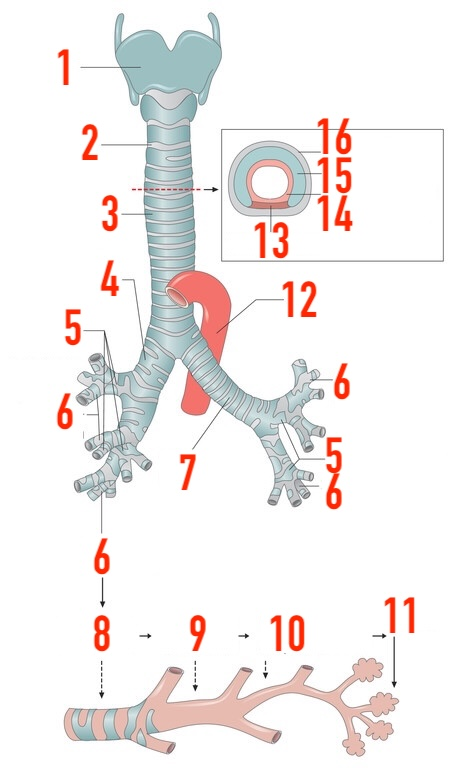
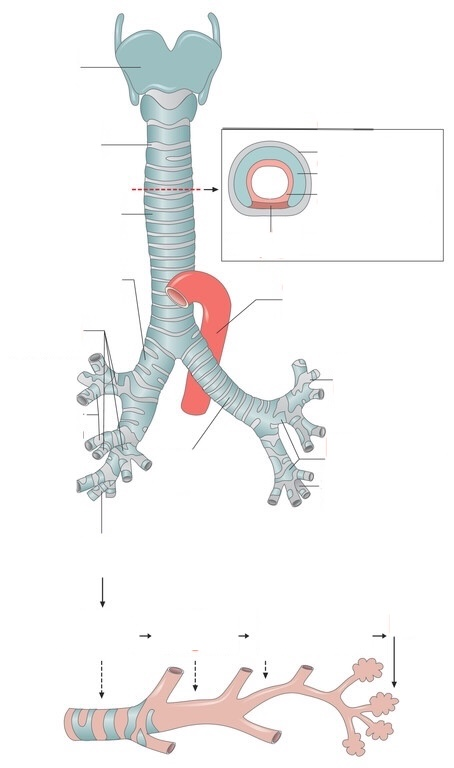
Release Version 1.3.9 - Fix

diff --git a/app/templates/edit_card.html b/app/templates/edit_card.html
@@ -14,10 +14,8 @@
                 <input type="hidden" name="next" value="{{ next_url }}">
                 {% endif %}
                 
-                <input type="hidden" name="multi_json" id="multi_json_input">
-                <input type="hidden" name="options" id="fallback_options_input">
-                
-                <textarea id="safe_json_loader" class="d-none">{{ card.options }}</textarea>
+                <input type="hidden" name="multi_json" id="multi_json_input" value="{{ card.options | e if card.options else '[]' }}">
+                <input type="hidden" name="options" id="fallback_options_input" value="{{ card.options | e if card.options else '[]' }}">
                 
                 <div class="row g-3 mb-3">
                     <div class="col-md-8">
@@ -105,7 +103,7 @@
                     <h5 class="fw-bold text-primary mb-3"><i class="bi bi-pin-map-fill me-2"></i>Interaktives Bild bearbeiten</h5>
                     
                     <label class="fw-bold small mb-2 text-secondary">1. Zielpunkte platzieren & verschieben</label>
-                    <p class="small text-muted mb-3">Klicke ins Bild, um neue Zielpunkte zu setzen. <strong>Du kannst bestehende Punkte nun einfach mit der Maus (oder dem Finger) per Drag & Drop an die richtige Stelle ziehen!</strong></p>
+                    <p class="small text-muted mb-3">Klicke ins Bild, um neue Zielpunkte zu setzen. <strong>Du kannst bestehende Punkte nun einfach mit der Maus per Drag & Drop verschieben!</strong></p>
                     
                     <div class="text-center bg-light rounded-4 border p-3 mb-4 shadow-inner">
                         <div style="position: relative; display: inline-block; cursor: crosshair; max-width: 100%; touch-action: none;" 
@@ -126,7 +124,7 @@
 
                 <div id="field_json" class="mb-3 {% if card.type not in ['ordering', 'assignment', 'calculation'] %}d-none{% endif %}">
                     <label class="fw-bold small">JSON Daten (Optionen)</label>
-                    <textarea name="ordering_json" id="ordering_json_textarea" class="form-control font-monospace" rows="5">{{ card.options }}</textarea>
+                    <textarea name="ordering_json" id="ordering_json_textarea" class="form-control font-monospace" rows="5">{{ card.options if card.options else '[]' }}</textarea>
                 </div>
 
                 <div class="d-flex justify-content-end gap-2 mt-4">
@@ -138,10 +136,15 @@
 </div>
 
 <script>
-// ---------------------------------------------------------
-// GLOBALE FUNKTIONEN FÜR DEN ANATOMIE-EDITOR
-// ---------------------------------------------------------
-window.anatomyMarkers = [];
+// --- Direkter JSON Injektor, umgeht den fehleranfälligen Textarea-Workaround ---
+try {
+    window.anatomyMarkers = {{ (card.options or '[]') | safe }};
+    if (!Array.isArray(window.anatomyMarkers)) window.anatomyMarkers = [];
+} catch(e) {
+    console.error("JSON Parse Fehler:", e);
+    window.anatomyMarkers = [];
+}
+
 window.anatomyNextId = 1;
 
 window.syncAnatomyJson = function() {
@@ -166,7 +169,6 @@ window.removeAnatomyMarker = function(index) {
     window.updateAnatomyView();
 };
 
-// FIX: Schutzfunktion gegen zerschossene HTML-Eingabefelder durch Sonderzeichen
 function escapeHtml(unsafe) {
     return (unsafe||'').toString()
          .replace(/&/g, "&amp;")
@@ -176,9 +178,6 @@ function escapeHtml(unsafe) {
          .replace(/'/g, "&#039;");
 }
 
-// ---------------------------------------------------------
-// DRAG & DROP LOGIK FÜR DIE ZIELPUNKTE (NEU)
-// ---------------------------------------------------------
 let draggedMarkerIndex = -1;
 let hasDragged = false;
 
@@ -230,7 +229,7 @@ window.stopDrag = function(e) {
 };
 
 window.addAnatomyMarker = function(e) {
-    if(hasDragged) return; // Wenn wir gerade gezogen haben, keinen neuen Punkt erstellen
+    if(hasDragged) return;
     if(e.target.closest('button') || e.target.closest('.admin-marker')) return; 
     
     const imgContainer = document.getElementById('admin-img-container');
@@ -268,11 +267,10 @@ window.updateAnatomyView = function() {
         dot.style.width = '28px'; dot.style.height = '28px';
         dot.style.left = `calc(${marker.x}% - 14px)`;
         dot.style.top = `calc(${marker.y}% - 14px)`;
-        dot.style.cursor = 'grab'; // Zeigt dem Nutzer, dass er ziehen kann
+        dot.style.cursor = 'grab';
         dot.style.zIndex = '10';
         dot.innerHTML = `<span class="text-white small fw-bold d-flex justify-content-center align-items-center h-100" style="pointer-events: none;">${index + 1}</span>`;
         
-        // Drag Events an den Punkt binden
         dot.onmousedown = (e) => window.startDrag(e, index);
         dot.ontouchstart = (e) => {
             const touch = e.touches[0];
@@ -330,36 +328,14 @@ window.handleImageUpload = function(event) {
 };
 
 document.addEventListener('DOMContentLoaded', function() {
-    const loader = document.getElementById('safe_json_loader');
+    let maxId = 0;
+    window.anatomyMarkers.forEach(m => { if (parseInt(m.id) > maxId) maxId = parseInt(m.id); });
+    window.anatomyNextId = maxId + 1;
     
-    if(loader && loader.value.trim() !== '') {
-        try {
-            window.anatomyMarkers = JSON.parse(loader.value);
-            window.syncAnatomyJson();
-
-            let maxId = 0;
-            window.anatomyMarkers.forEach(m => { if (parseInt(m.id) > maxId) maxId = parseInt(m.id); });
-            window.anatomyNextId = maxId + 1;
-            
-            const anatomyImg = document.getElementById('admin-anatomy-img');
-            if (anatomyImg && anatomyImg.getAttribute('src')) {
-                if(anatomyImg.complete) {
-                    window.updateAnatomyView();
-                } else {
-                    anatomyImg.onload = function() {
-                        window.updateAnatomyView();
-                    }
-                }
-            }
-        } catch(e) {
-            console.error("Fehler beim Laden der Anatomie-Daten:", e);
-        }
-    }
+    // Sofort laden, nicht mehr auf das Bild warten!
+    window.updateAnatomyView();
 });
 
-// ---------------------------------------------------------
-// RESTLICHE LOGIK
-// ---------------------------------------------------------
 function updateFormFields() {
     const typeSelect = document.getElementById('typeSelect');
     if(!typeSelect) return;

diff --git a/app/templates/admin.html b/app/templates/admin.html
@@ -284,9 +284,6 @@ window.handleImageUpload = function(event) {
     }
 };
 
-// ---------------------------------------------------------
-// RESTLICHE ADMIN LOGIK
-// ---------------------------------------------------------
 function updateFormFields() {
     const type = document.getElementById('typeSelect').value;
     ['field_standard_answer','field_mc_options','field_anatomy','field_anatomy_multi','field_json'].forEach(id=>document.getElementById(id).classList.add('d-none'));

diff --git a/app/routes/admin.py b/app/routes/admin.py
@@ -26,7 +26,6 @@ def admin_required(f):
 def allowed_file(fn):
     return '.' in fn and fn.rsplit('.', 1)[1].lower() in {'png', 'jpg', 'jpeg', 'gif', 'mp3', 'wav', 'csv'}
 
-# NEU: Extrem effiziente Baum-Erstellung (Lädt keine Card-Objekte, sondern zählt nur auf der DB)
 def build_admin_tree():
     stats = db.session.query(
         Card.category,
@@ -104,7 +103,6 @@ def check_question_quality(cards):
             
     return warnings
 
-# NEU: HTMX API-Route für das schnelle Laden der Fragen in Ordnern & bei der Suche
 @bp.route('/admin/api/cards')
 @admin_required
 def admin_api_cards():
@@ -118,7 +116,7 @@ def admin_api_cards():
     if q:
         query = query.filter(Card.question.ilike(f'%{q}%'))
         
-    cards = query.limit(100).all() # Limit zum Schutz bei extrem großen Suchanfragen
+    cards = query.limit(100).all() 
     
     html = ""
     for c in cards:
@@ -167,14 +165,21 @@ def admin_dashboard():
                 url = handle_upload(request.files['audio'])
                 if url: c.audio_url = url
             
-            c.answer = request.form.get('answer','')
+            if c.type == 'anatomy':
+                if request.form.get('answer_de_field'):
+                    c.answer = request.form.get('answer_de_field')
+                else:
+                    c.answer = request.form.get('answer', '')
+                c.answer_lat = request.form.get('answer_lat', '')
+            else:
+                c.answer = request.form.get('answer','')
             
             if c.type == 'mc':
                 opts = [x.strip() for x in request.form.getlist('mc_options') if x.strip()]
                 if c.answer and c.answer not in opts: opts.append(c.answer)
                 c.options = json.dumps(opts)
             elif c.type == 'anatomy_multi': 
-                c.options = request.form.get('multi_json')
+                c.options = request.form.get('multi_json') or '[]'
             elif c.type in ['ordering', 'assignment', 'calculation']: 
                 c.options = request.form.get('ordering_json')
             
@@ -324,7 +329,7 @@ def edit_card(card_id):
             if card.answer and card.answer not in opts: opts.append(card.answer)
             card.options = json.dumps(opts)
         elif card.type == 'anatomy_multi': 
-            card.options = request.form.get('multi_json')
+            card.options = request.form.get('multi_json') or '[]'
         elif card.type in ['ordering', 'assignment', 'calculation']: 
             card.options = request.form.get('ordering_json')
 
@@ -391,7 +396,6 @@ def approve_user(uid):
     u.is_approved = True
     db.session.commit()
     
-    # NEU: Bestätigungs-E-Mail an den Benutzer senden
     if u.email:
         try:
             msg = Message('Dein Account wurde freigeschaltet', recipients=[u.email])
@@ -526,10 +530,6 @@ def import_confirm():
     except Exception as e: flash(f'Import Fehler: {e}', 'danger')
     return redirect(url_for('admin.admin_dashboard', tab='io'))
 
-# ==========================================
-# --- BPR SZENARIO EDITOR ROUTEN ---
-# ==========================================
-
 @bp.route('/admin/bpr/add', methods=['POST'])
 @admin_required
 def add_bpr_scenario():
@@ -576,7 +576,6 @@ def delete_bpr_scenario(scenario_id):
     
     flash('Szenario erfolgreich gelöscht.', 'success')
     return redirect(url_for('admin.admin_dashboard', tab='bpr'))
-
 
 @bp.route('/admin/bpr/node/add/<int:scenario_id>', methods=['POST'])
 @admin_required
@@ -651,10 +650,6 @@ def add_bpr_outcome(choice_id):
     db.session.commit()
     flash('Ergebnis (Outcome) hinzugefügt.', 'success')
     return redirect(url_for('admin.edit_bpr_scenario', scenario_id=c.node.scenario_id))
-
-# ==========================================
-# --- BPR IMPORT & EXPORT ---
-# ==========================================
 
 @bp.route('/admin/bpr/export')
 @admin_required

diff --git a/app/utils.py b/app/utils.py
@@ -181,7 +181,10 @@ def get_learning_stats(user):
     
     now = datetime.utcnow()
     today_start = now.replace(hour=0, minute=0, second=0, microsecond=0)
-    MAX_REVIEWS_PER_DAY, MAX_NEW_CARDS_PER_DAY = get_current_limits()
+    
+    # NEU: Feste Basis-Limits für das Dashboard definieren, anstatt get_current_limits() zu nutzen
+    BASE_MAX_REVIEWS = 50
+    BASE_MAX_NEW_CARDS = 20
     
     total = Card.query.count()
     learned = UserProgress.query.filter(UserProgress.user_id==user.id, UserProgress.box>0).count()
@@ -194,7 +197,7 @@ def get_learning_stats(user):
         UserProgress.last_review >= today_start, 
         UserProgress.reps > 1
     ).count()
-    due_left_today = max(0, MAX_REVIEWS_PER_DAY - reviews_done_today)
+    due_left_today = max(0, BASE_MAX_REVIEWS - reviews_done_today)
     display_due = min(true_due, due_left_today)
     
     new_done_today = UserProgress.query.filter(
@@ -202,7 +205,7 @@ def get_learning_stats(user):
         UserProgress.last_review >= today_start, 
         UserProgress.reps == 1
     ).count()
-    new_left_today = max(0, MAX_NEW_CARDS_PER_DAY - new_done_today)
+    new_left_today = max(0, BASE_MAX_NEW_CARDS - new_done_today)
     display_new = min(true_new, new_left_today)
     
     total_active = UserProgress.query.filter_by(user_id=user.id).count()
